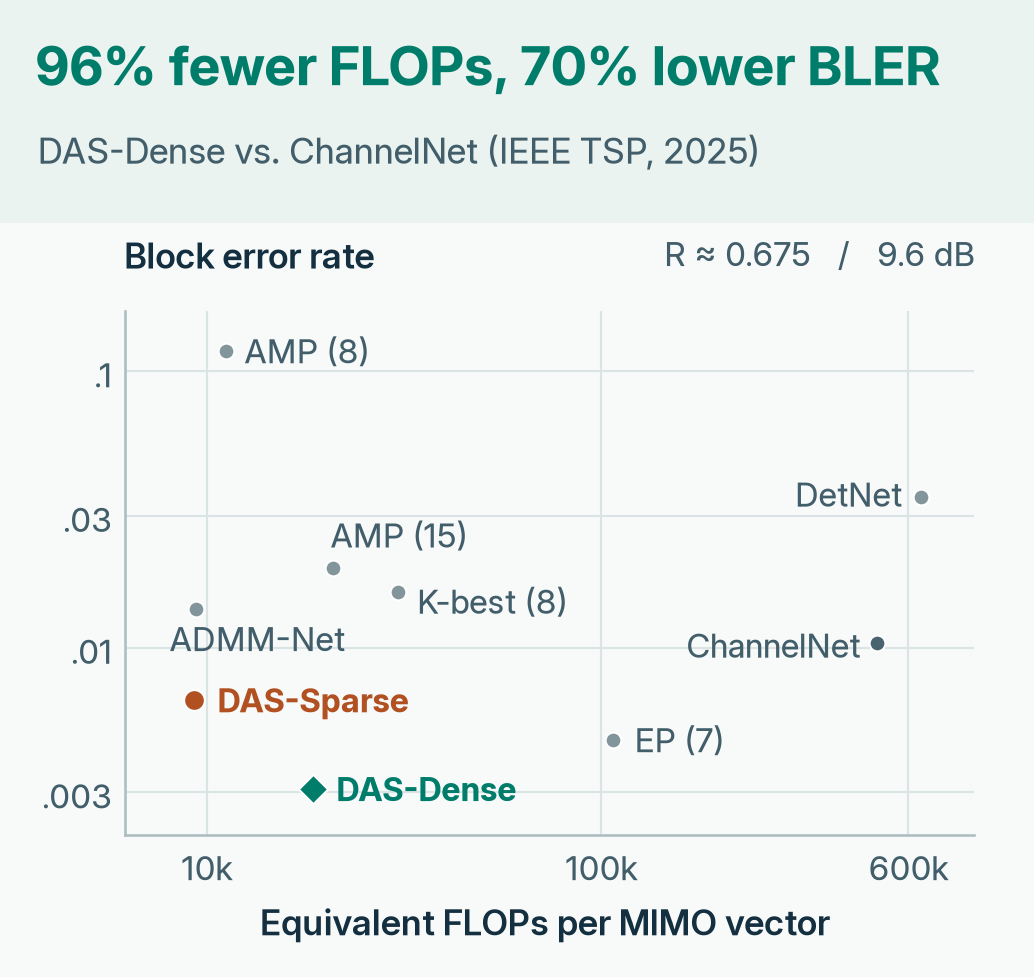
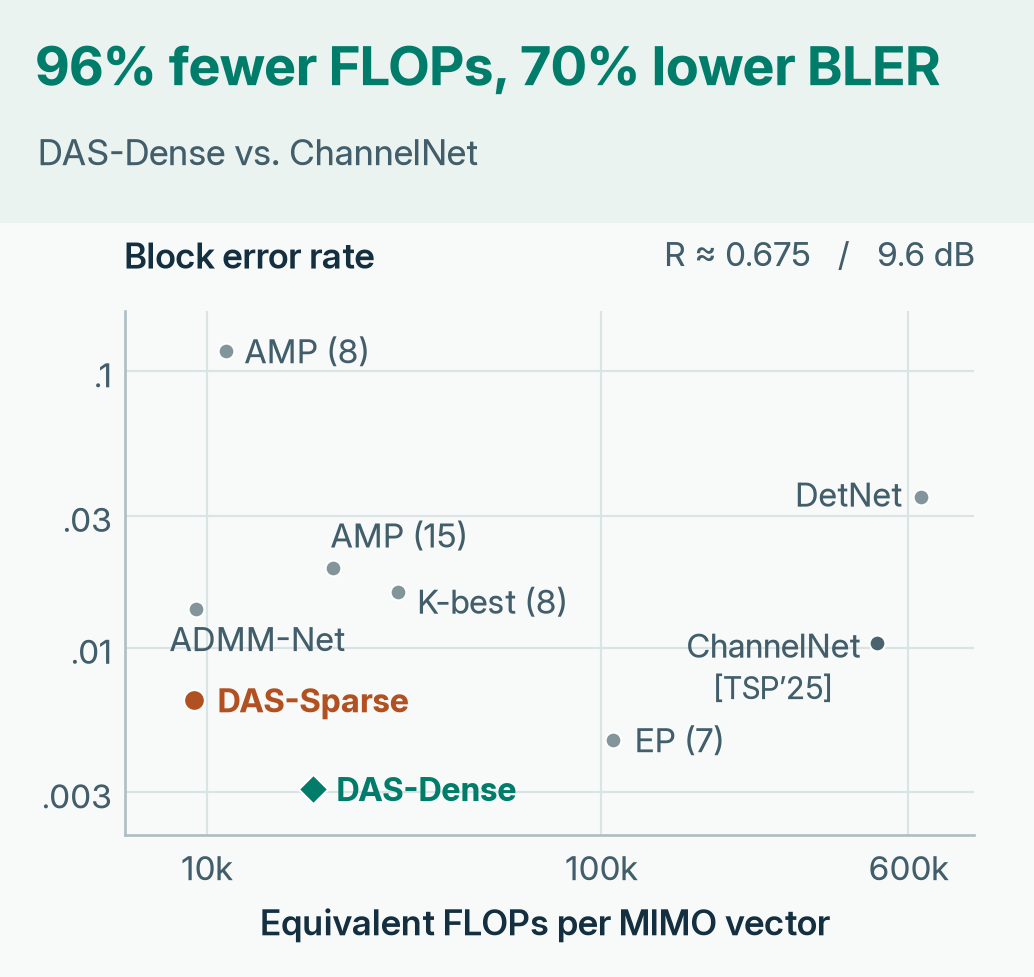
Place the ChannelNet citation below its scatterplot label

diff --git a/README.md b/README.md
@@ -39,7 +39,7 @@ On an RTX 4090, DAS-Sparse processes **3.50 billion MIMO vectors/s**, compared w
 
 <picture>
   <source media="(max-width: 600px)" srcset="assets/throughput-mobile.png">
-  <img src="assets/throughput.png" width="100%" alt="On an RTX 4090, DAS-Sparse reaches 264 times the throughput of ChannelNet (IEEE TSP, 2025) at 512 receive vectors per channel. The bars show all nine measured detectors.">
+  <img src="assets/throughput.png" width="100%" alt="On an RTX 4090, DAS-Sparse reaches 264 times the throughput of ChannelNet at 512 receive vectors per channel. The bars show all nine measured detectors.">
 </picture>
 
 ## Quick Start
